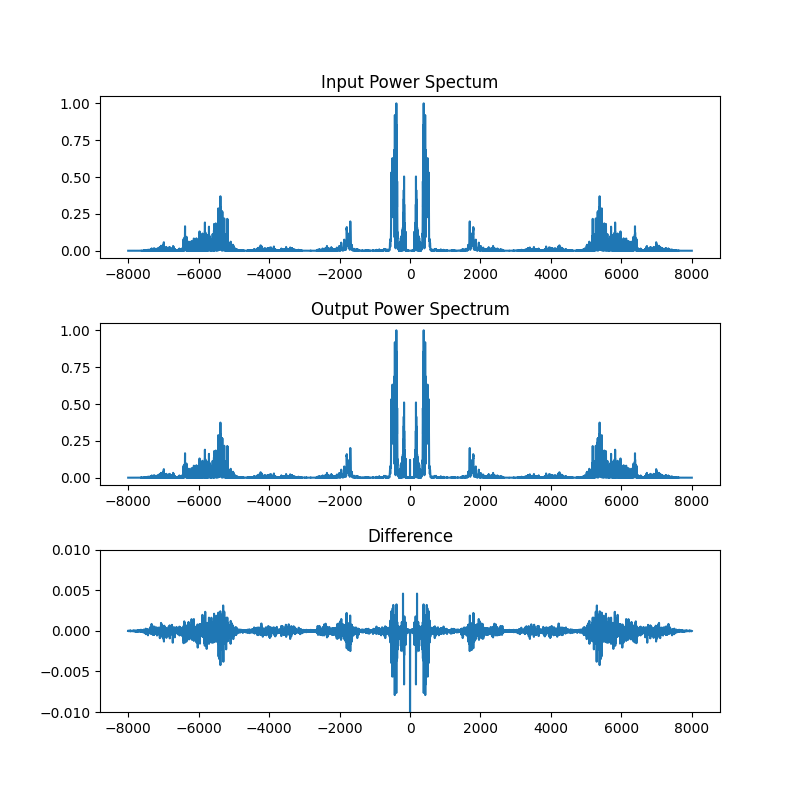
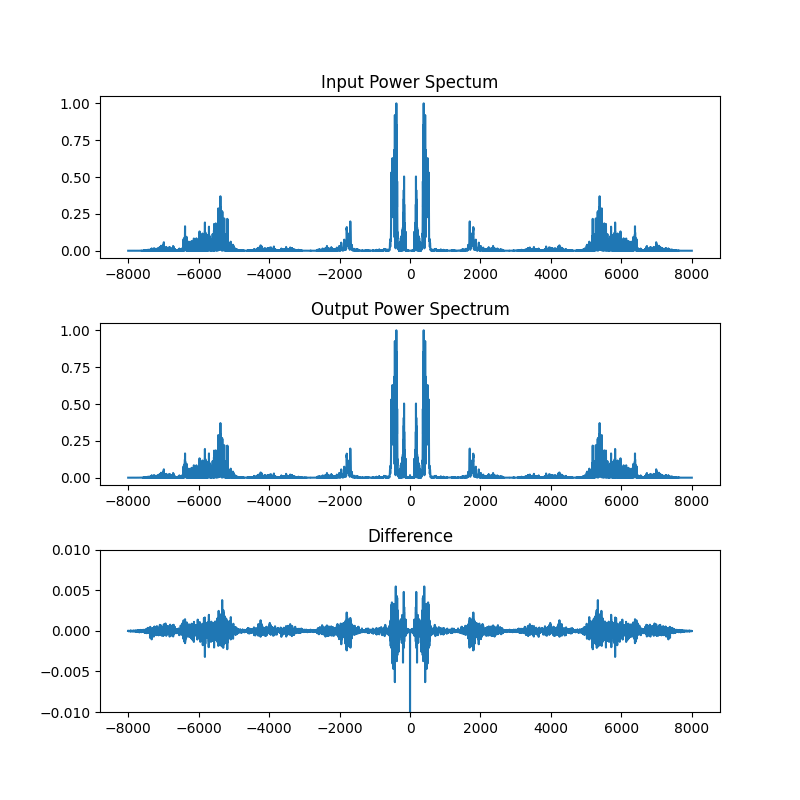
sped up pcm_to_pdm_pwm by a factor of 4

Changed region(s): [[0.4062, 0.7188, 0.625, 0.875], [0.6562, 0.75, 0.8438, 0.8438], [0.1875, 0.75, 0.375, 0.8438]]

diff --git a/py/pdm.py b/py/pdm.py
@@ -49,13 +49,13 @@ def pcm_to_pdm_pwm(x):
     noise in the signal.'''
     x = shift_zero_to_one(x)
     x = x * ratio_in  # scale up by window so that value is # ones
-    y = np.zeros(len(x) * ratio_in, dtype=np.uint8)
-    for i in range(len(x)):
-        xi = int(round(x[i]))
-        ones = np.ones(xi)
-        zeros = np.zeros(ratio_in - xi)
-        subseq = np.hstack((ones, zeros))
-        y[i * ratio_in : (i + 1) * ratio_in] = subseq
+    x = x.astype(np.uint8)
+    repeats = np.zeros(x.size * 2, dtype=np.uint8)
+    repeats[::2] = x
+    repeats[1::2] = ratio_in - x
+    one_zero = np.ones(x.size * 2, dtype=np.uint8)
+    one_zero[1::2] = 0
+    y = np.repeat(one_zero, repeats)
     return y
 
 def pcm_to_pdm_err(x):
